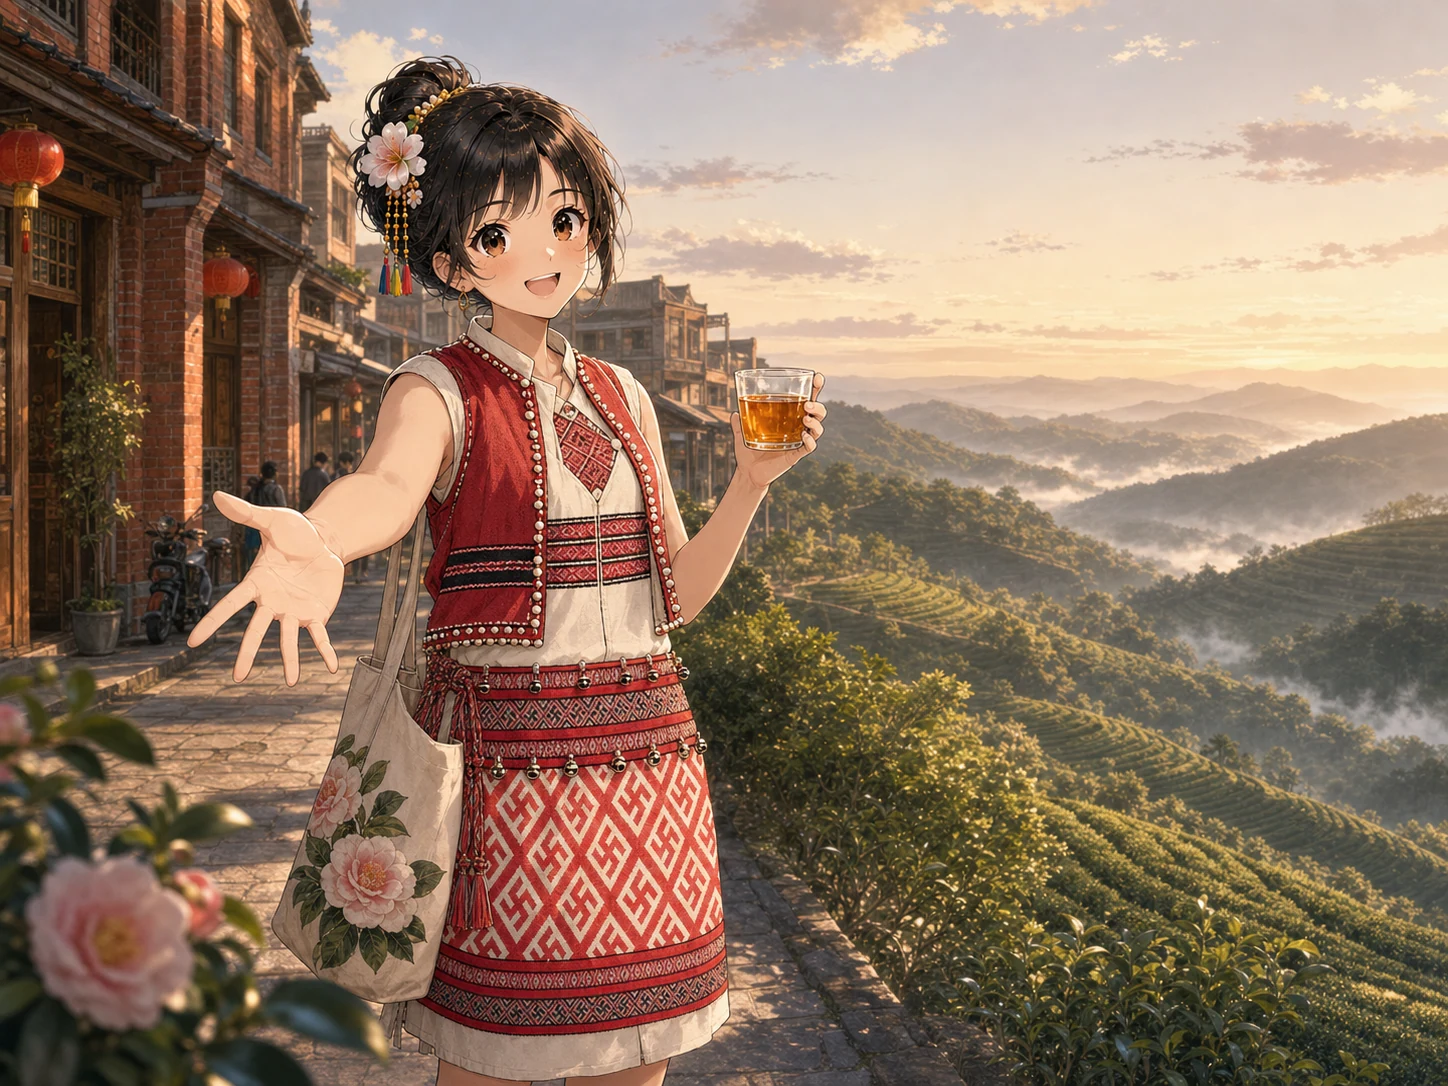
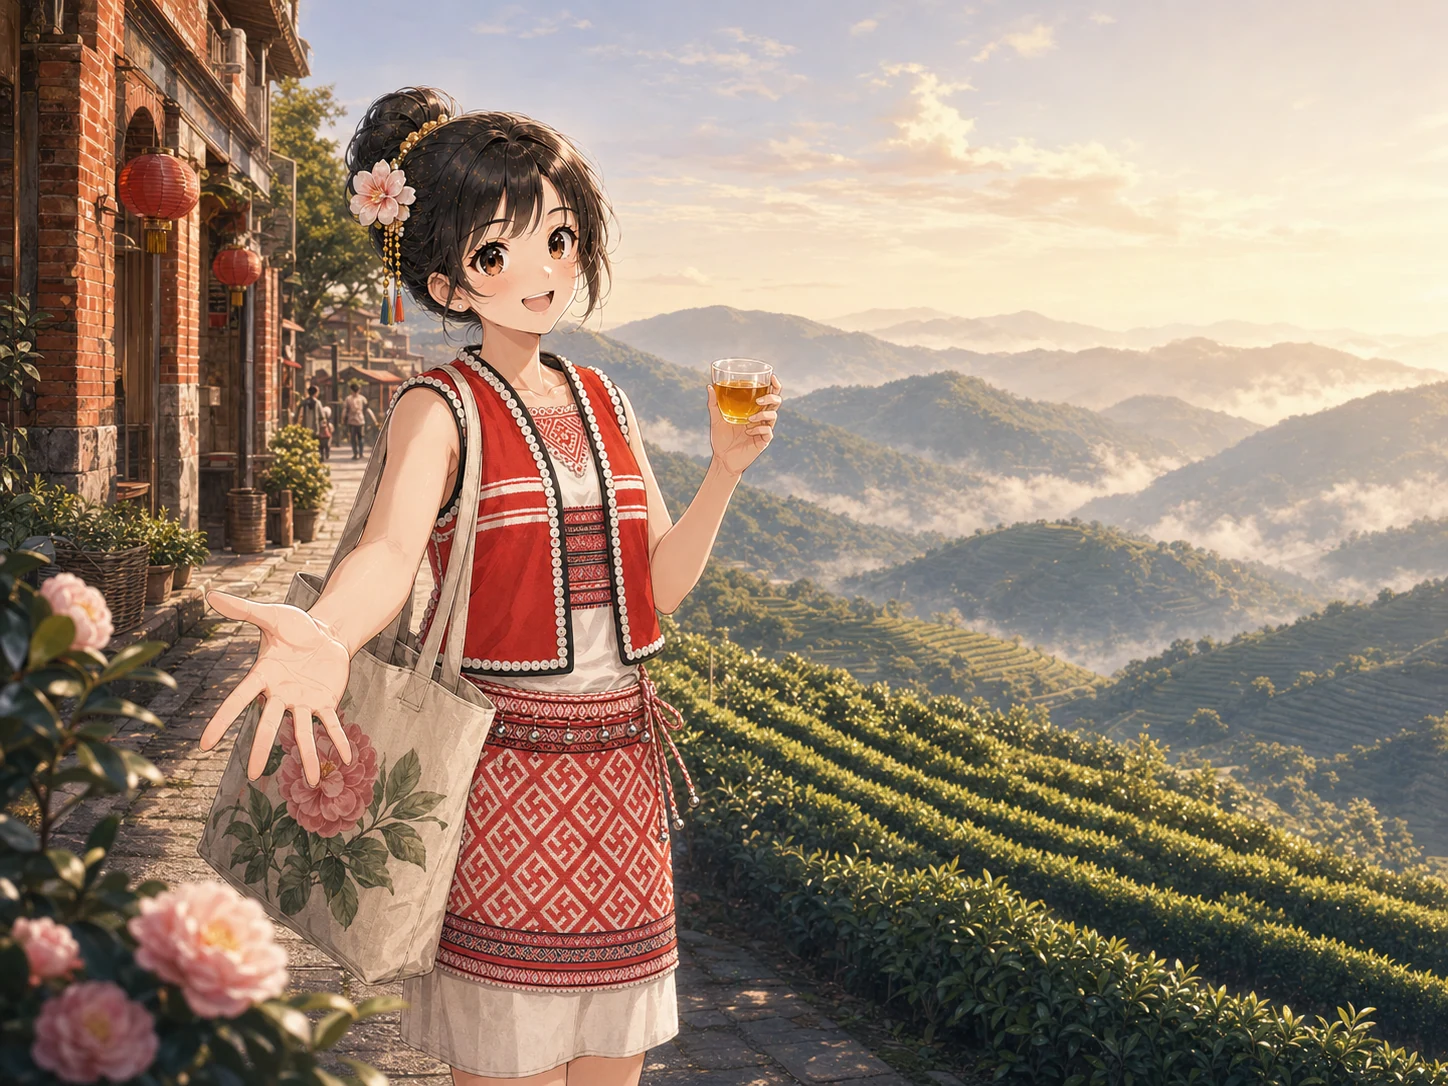
賽夏背心接上實物照；靜態掃出五族有同樣的「地標是房子但右側要空景」
**背心先前沒有任何照片依據**，只靠 costume.json 那句「對襟無袖長背心，外再套上
對襟無袖短背心」。使用者問「背心是對的嗎、有沒有照片可以對照」，收了基隆市文物館
那件（維基共享資源，宜蘭第一公民自攝，CC BY-SA 4.0）。形制本來就對（紅、無袖、
對襟、白釦），少的是三個細節，已依實物補進規格並重生驗證：白色貝釦繞整圈
（襟緣、袖襱、肩線、下襬）而不只沿前襟；紅底上成組的白色橫細條（胸線一組、腰線
一組）；對襟中央一條黑帶、領口與袖襱黑滾邊。

只裁背心那一塊收進來——原照下方那件白底紅細條紋長衣是另一種形制，與本筆採用的
素白長衣競爭，留著會重演先前「參考照互相競爭害卍字消失」那件事。

**接著把這輪在賽夏踩到的四類錯靜態掃過全部 12 個特別版：**

一、手持物拿別族食物：只有賽夏，已修（其餘是誤報，客家拿擂茶是本族、泰雅拿草莓
是中性農產）。

二、同一個詞既禁又要：五筆全誤報，講的都是不同東西（泰雅是「有袖短上衣」對
「不要別群的無袖長袍」，卑南是「無袖」對「照片裡的現代長袖不要畫」）。

三、地標是建築但 right_zone 要求空景：**真的，命中五族**——新竹客家、苗栗客家、
苗栗泰雅、嘉義鄒族、屏東排灣，全部是「老街／港灣」配 right_zone=sky/sea，
而只有賽夏有防護。這正是賽夏右下角從第一版就有屋頂的原因。五族的 viewpoint
都補上：建築集中在左三分之一且到那裡為止，右側 40% 逐項禁屋頂、瓦片、屋簷、牆、
店面、橋、鐵道、燈桿與人。**這五族是靜態改的，還沒重生驗證。**

四、參考照互相競爭：要看照片內容不能只看檔名，尚未掃。

diff --git a/data/costume-refs/SOURCES.md b/data/costume-refs/SOURCES.md
@@ -22,6 +22,7 @@
 | `saysiyat-waon-01-back.jpg` | 賽夏族雷女紋 wa:on 實穿背面：紅底白線的卍字紋嵌在菱格中連續鋪滿，上下各兩道窄幾何邊帶，上緣綴一排小鈴 | [數位島嶼](https://cyberisland.teldap.tw/P/vFrv) | 中央研究院數位文化中心（攝影 shiaochin） | CC BY-NC-SA 3.0 TW |
 | `saysiyat-02-longshirt.jpg` | 賽夏族無袖長衣整件平放：白麻布對襟無領無袖、胸前一道紅地紋樣帶 | [國家文化記憶庫](https://tcmb.culture.tw/zh-tw/detail?indexCode=MOCCOLLECTIONS&id=11000043876) | （記憶庫該筆） | CC BY 3.0 TW+ |
 | `saysiyat-03-redband.jpg` | 紅地紋樣帶特寫：○╳紋與細條紋，白麻底、紋樣帶內反過來是紅地白紋 | 同上 | 同上 | 同上 |
+| `saysiyat-06-vest.jpg` | 賽夏族**紅色無袖對襟背心**：白色貝釦沿襟緣、袖襱、下襬繞整圈，紅底上有成組的白色橫向細條，對襟中央一條黑帶，領口與袖襱黑滾邊。**只裁背心**——原照下方那件白底紅細條紋長衣屬另一種形制，與本筆採用的素白長衣競爭，故裁去 | [維基共享資源](https://commons.wikimedia.org/wiki/File:%E5%9F%BA%E9%9A%86%E5%B8%82%E6%96%87%E7%89%A9%E9%A4%A821.jpg) | 維基共享資源使用者「宜蘭第一公民」自攝（基隆市文物館藏）| CC BY-SA 4.0 |
 | `saysiyat-04-kilakil-cc0.jpg` | 雷女紋 kilakil 織品特寫：紅底、菱形格內的卍字**白色與深藍兩色交錯**、格線由白色小圓點串成、上下窄織帶、末端白流蘇 | [維基共享資源](https://commons.wikimedia.org/wiki/File:%E8%B3%BD%E5%A4%8F%E6%97%8F%E7%B9%94%E7%B4%8B(%E9%9B%B7%E5%A5%B3%E7%B4%8B).jpg) | 維基共享資源使用者「宜蘭第一公民」自攝（順益台灣原住民博物館「勁樸有燦」臺灣原住民織繡研究展）| CC0 |
 | `saysiyat-05-donghe-robe.jpg` | 賽夏族東河社無袖長衣（複製品，原件 1930 年入藏臺北帝國大學）：上半白麻素面、下半整片紅白菱形密織紋、兩側夾黑白紅窄織帶 | [維基共享資源](https://commons.wikimedia.org/wiki/File:%E8%B3%BD%E5%A4%8F%E6%97%8F%E6%9D%B1%E6%B2%B3%E7%A4%BE%E7%84%A1%E8%A2%96%E9%95%B7%E8%A1%A3%EF%BC%88%E8%A4%87%E8%A3%BD%E5%93%81%EF%BC%89.jpg) | 同上（東河社即新竹州竹南郡蕃地ワロ社，正是本站畫的北群賽夏）| CC BY-SA 4.0 |
 | `amis-nanshi-01-headdress.jpg` | 南勢阿美女子服飾的頭飾單件：白絨毛冠、兩側紅穗、彩色絨球與珠串流蘇 | [國家文化記憶庫](https://tcmb.culture.tw/zh-tw/detail?indexCode=Culture_Object&id=287411) | 花蓮縣文化局（2005 年入庫，整組含頭飾、胸兜、上衣、攜物袋、2 條腰繩、2 塊方裙、護腿布、項鍊） | 數位物件 OGDL 1.0、描述文字 CC0 |
